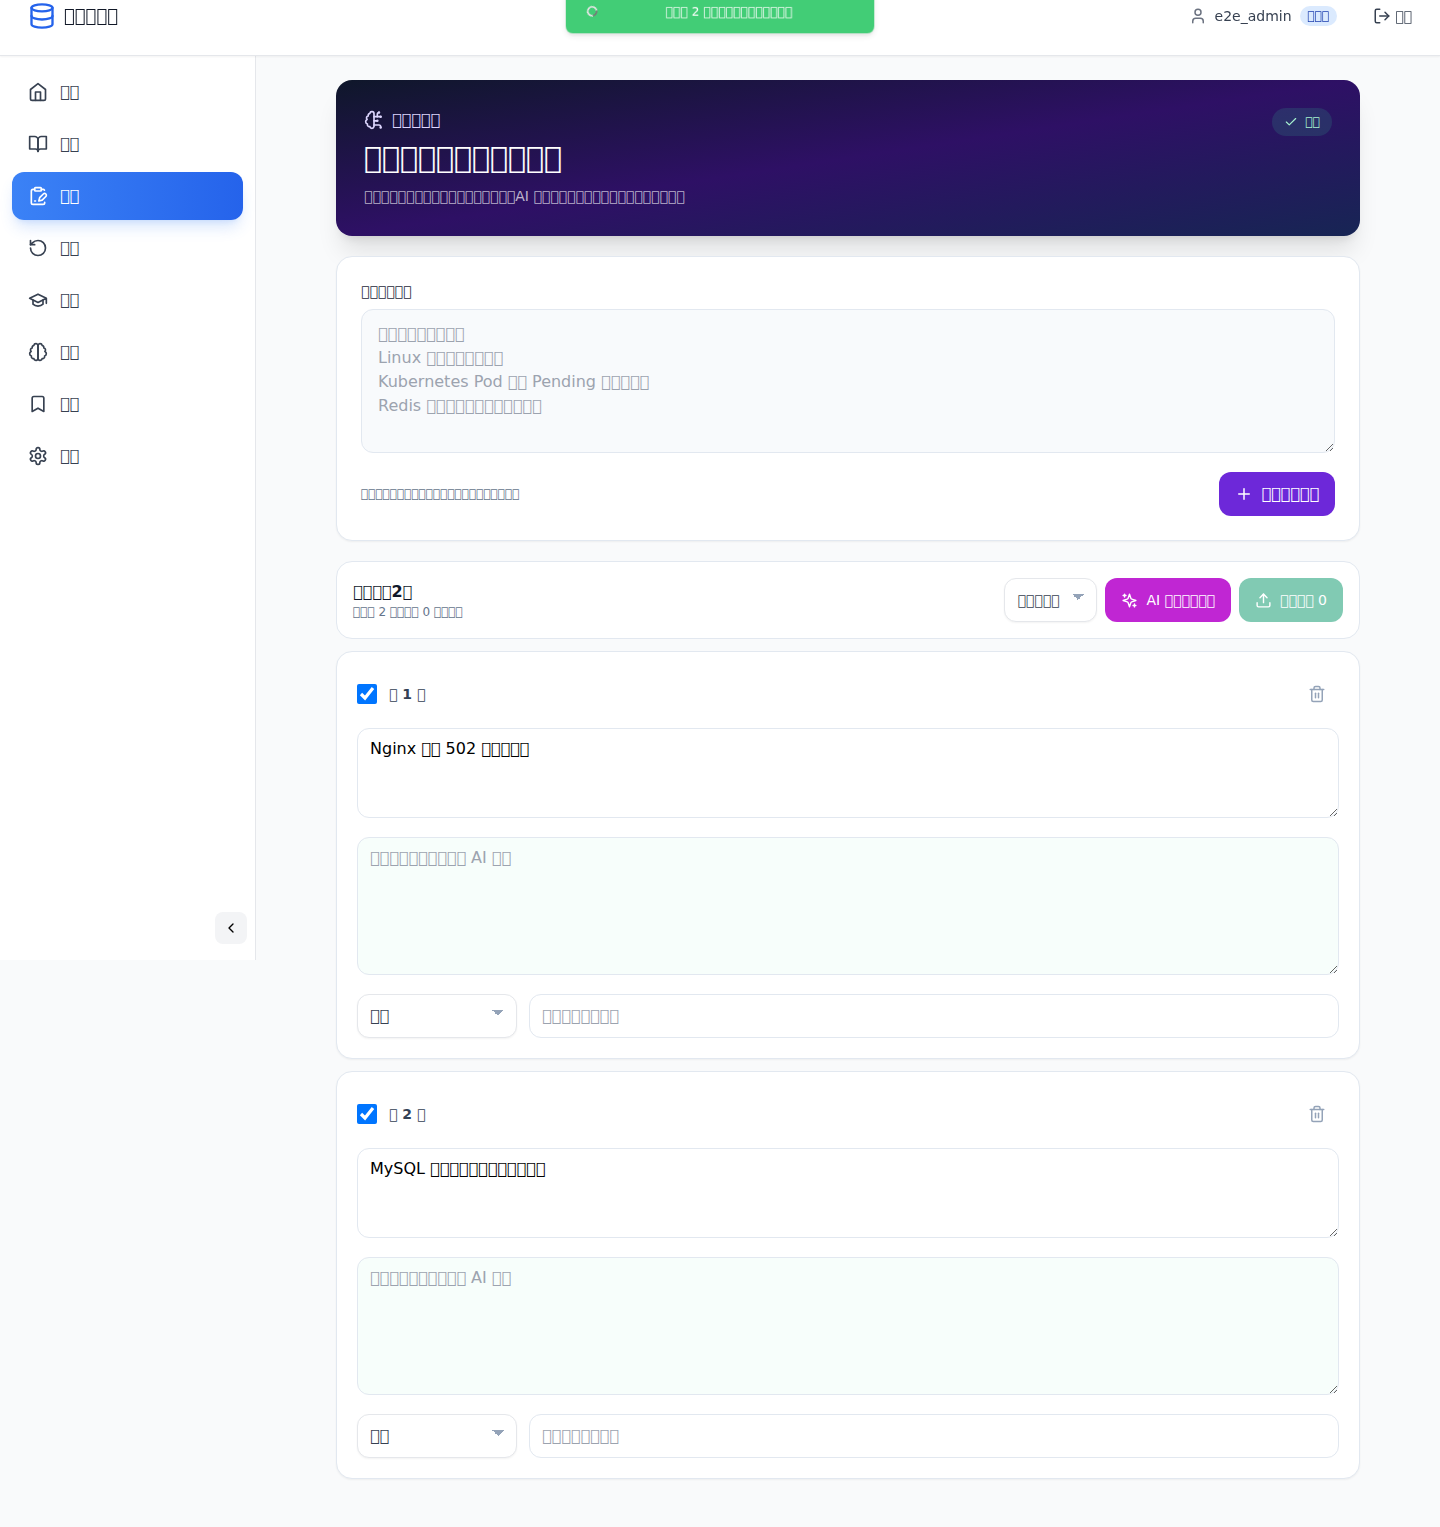
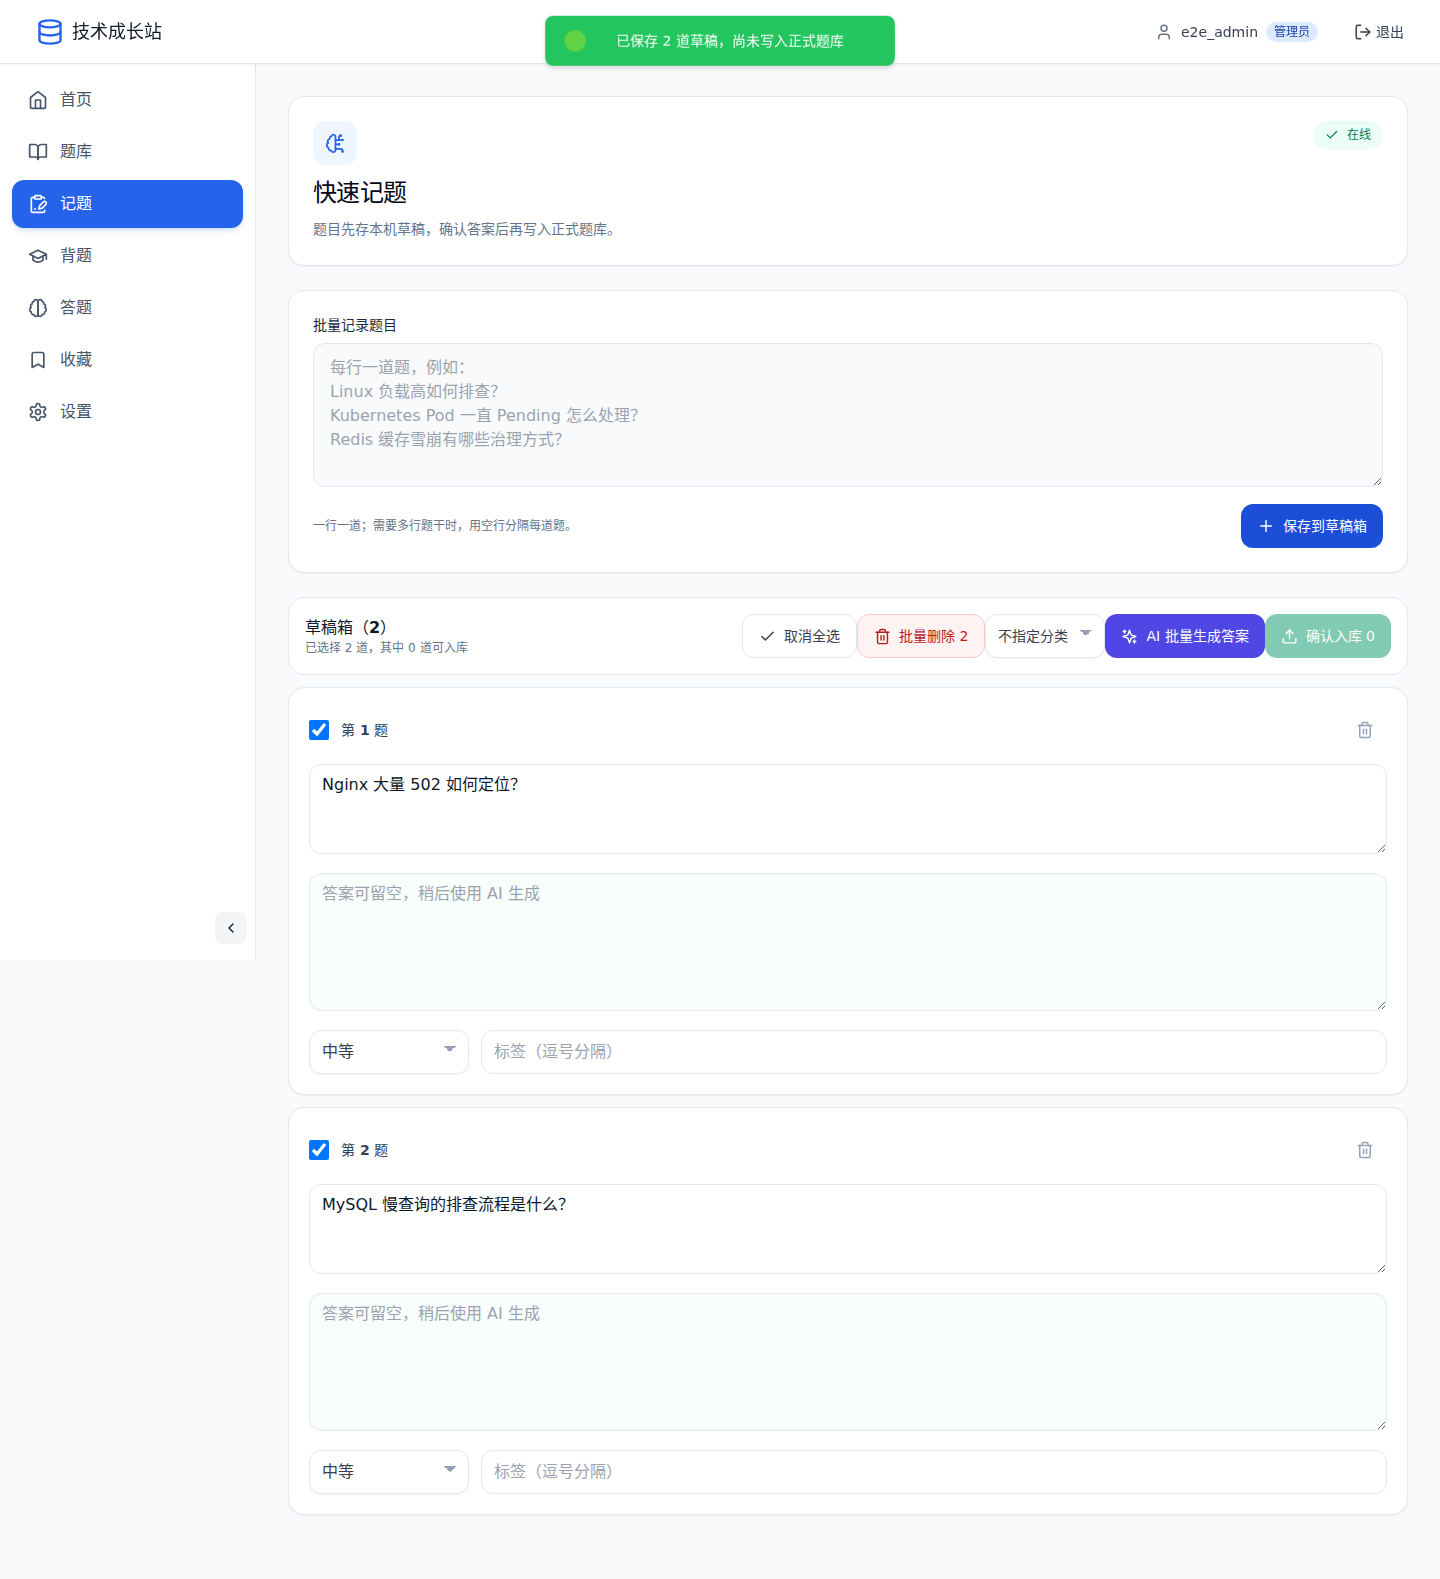
docs: refresh current product screenshots

diff --git a/web/e2e/readme-screenshots.spec.ts b/web/e2e/readme-screenshots.spec.ts
@@ -38,6 +38,6 @@ test('生成 README 产品截图', async ({ page, request }) => {
 
   await page.setViewportSize({ width: 390, height: 844 });
   await page.goto('/study');
-  await expect(page.getByText('背题模式')).toBeVisible();
-  await page.screenshot({ path: path.join(screenshotDir, 'mobile-study.png'), fullPage: true });
+  await expect(page.getByRole('button', { name: '更多题目操作' })).toBeVisible();
+  await page.screenshot({ path: path.join(screenshotDir, 'mobile-review.png'), fullPage: true });
 });

diff --git a/README.md b/README.md
@@ -32,11 +32,11 @@
 <table>
   <tr>
     <td width="68%"><img src="./docs/images/interview-capture.png" alt="批量记录题目与草稿箱"></td>
-    <td width="32%"><img src="./docs/images/overview.png" alt="技术成长站概览"></td>
+    <td width="32%"><img src="./docs/images/mobile-review.png" alt="手机端背题"></td>
   </tr>
   <tr>
     <td align="center">多题记录、AI 补答案、确认后入库</td>
-    <td align="center">统一的题库与学习工作台</td>
+    <td align="center">手机端随时背题与复习</td>
   </tr>
 </table>
 
